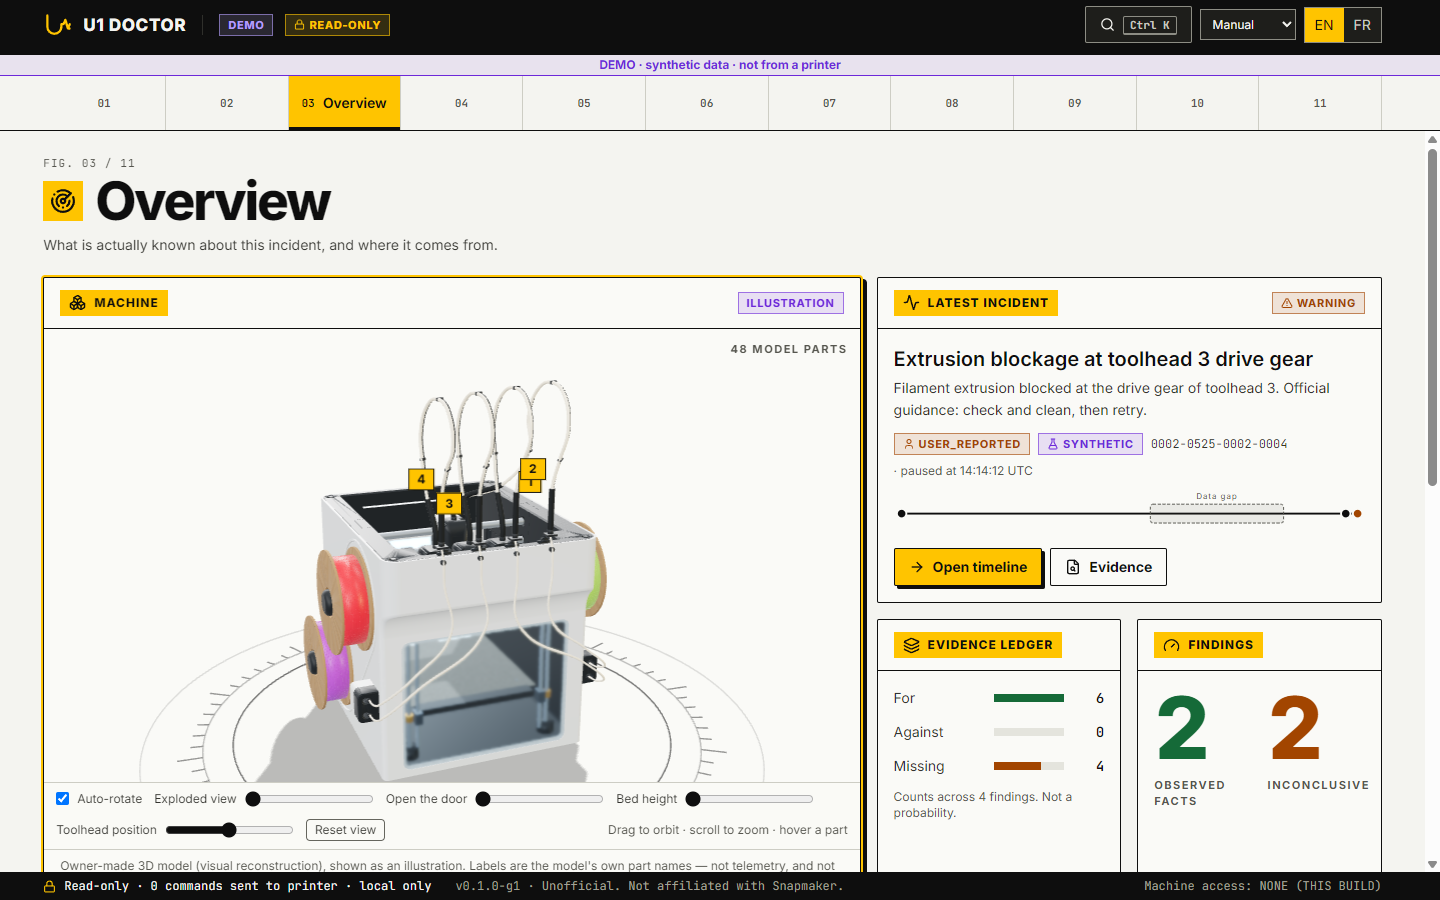
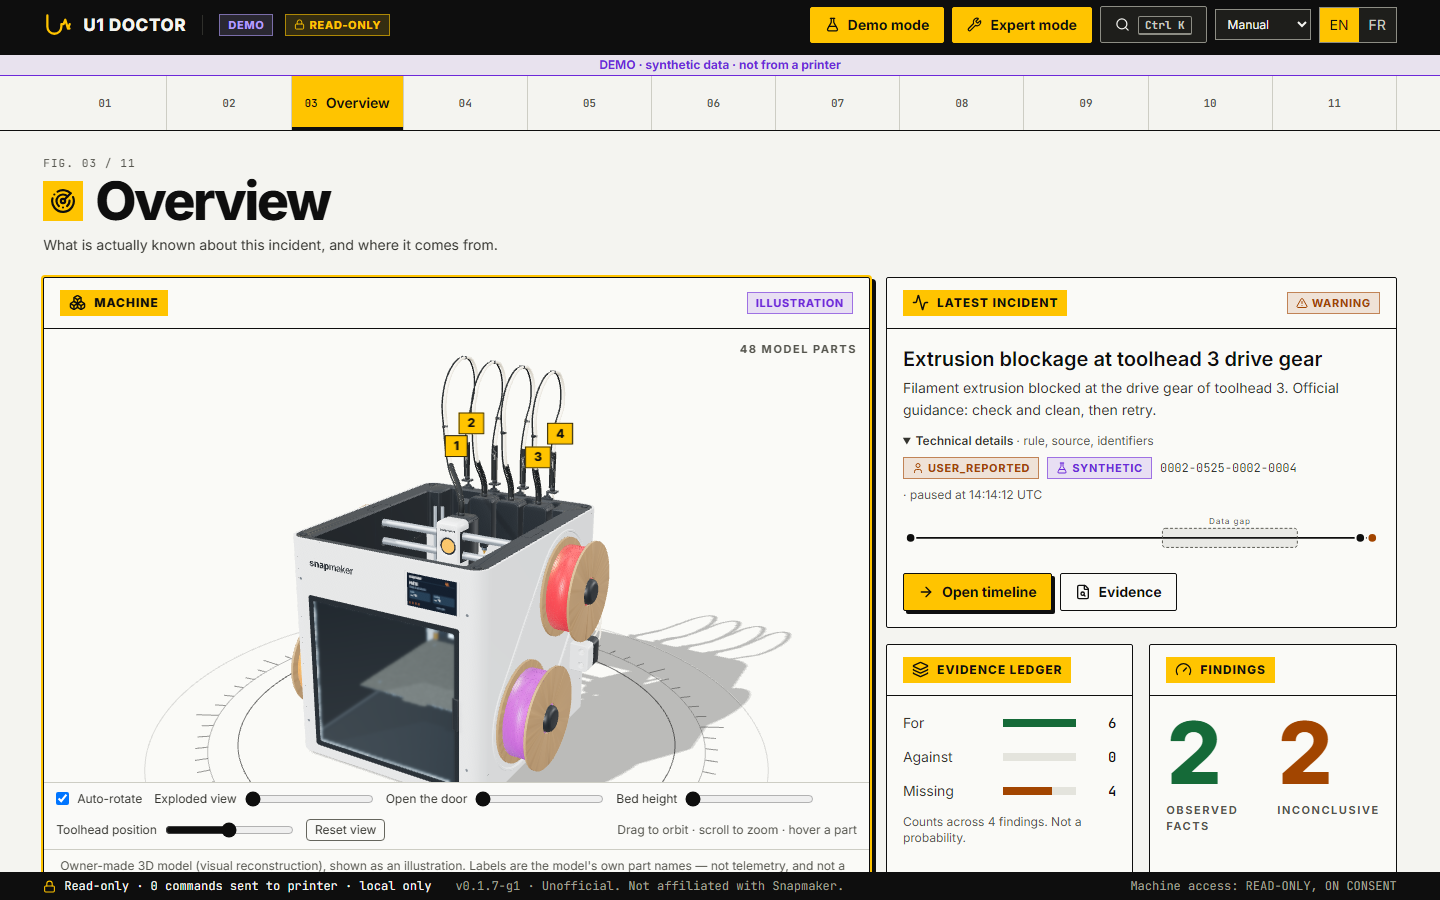
docs: Retake the 11 screenshots on 0.1.7-g1 with the new header

diff --git a/README.md b/README.md
@@ -49,7 +49,7 @@ U1 Doctor runs **on your own PC**. It gives you three things:
 |---|---|---|
 | ![Overview](docs/media/screens/03-overview.png) | ![Timeline](docs/media/screens/06-timeline.png) | ![Error codes](docs/media/screens/04-error-codes.png) |
 
-Screenshots were taken with **demo mode** on, which shows the built-in **synthetic demo data** (the `DEMO` banner is visible whenever it is on). All 11 screens are in [`docs/media/screens/`](docs/media/screens/).
+Screenshots were taken in **Expert mode** with **demo mode** on, which shows the built-in **synthetic demo data** (the `DEMO` banner is visible whenever it is on). All 11 screens are in [`docs/media/screens/`](docs/media/screens/).
 
 ## What is inside: the 11 screens
 
